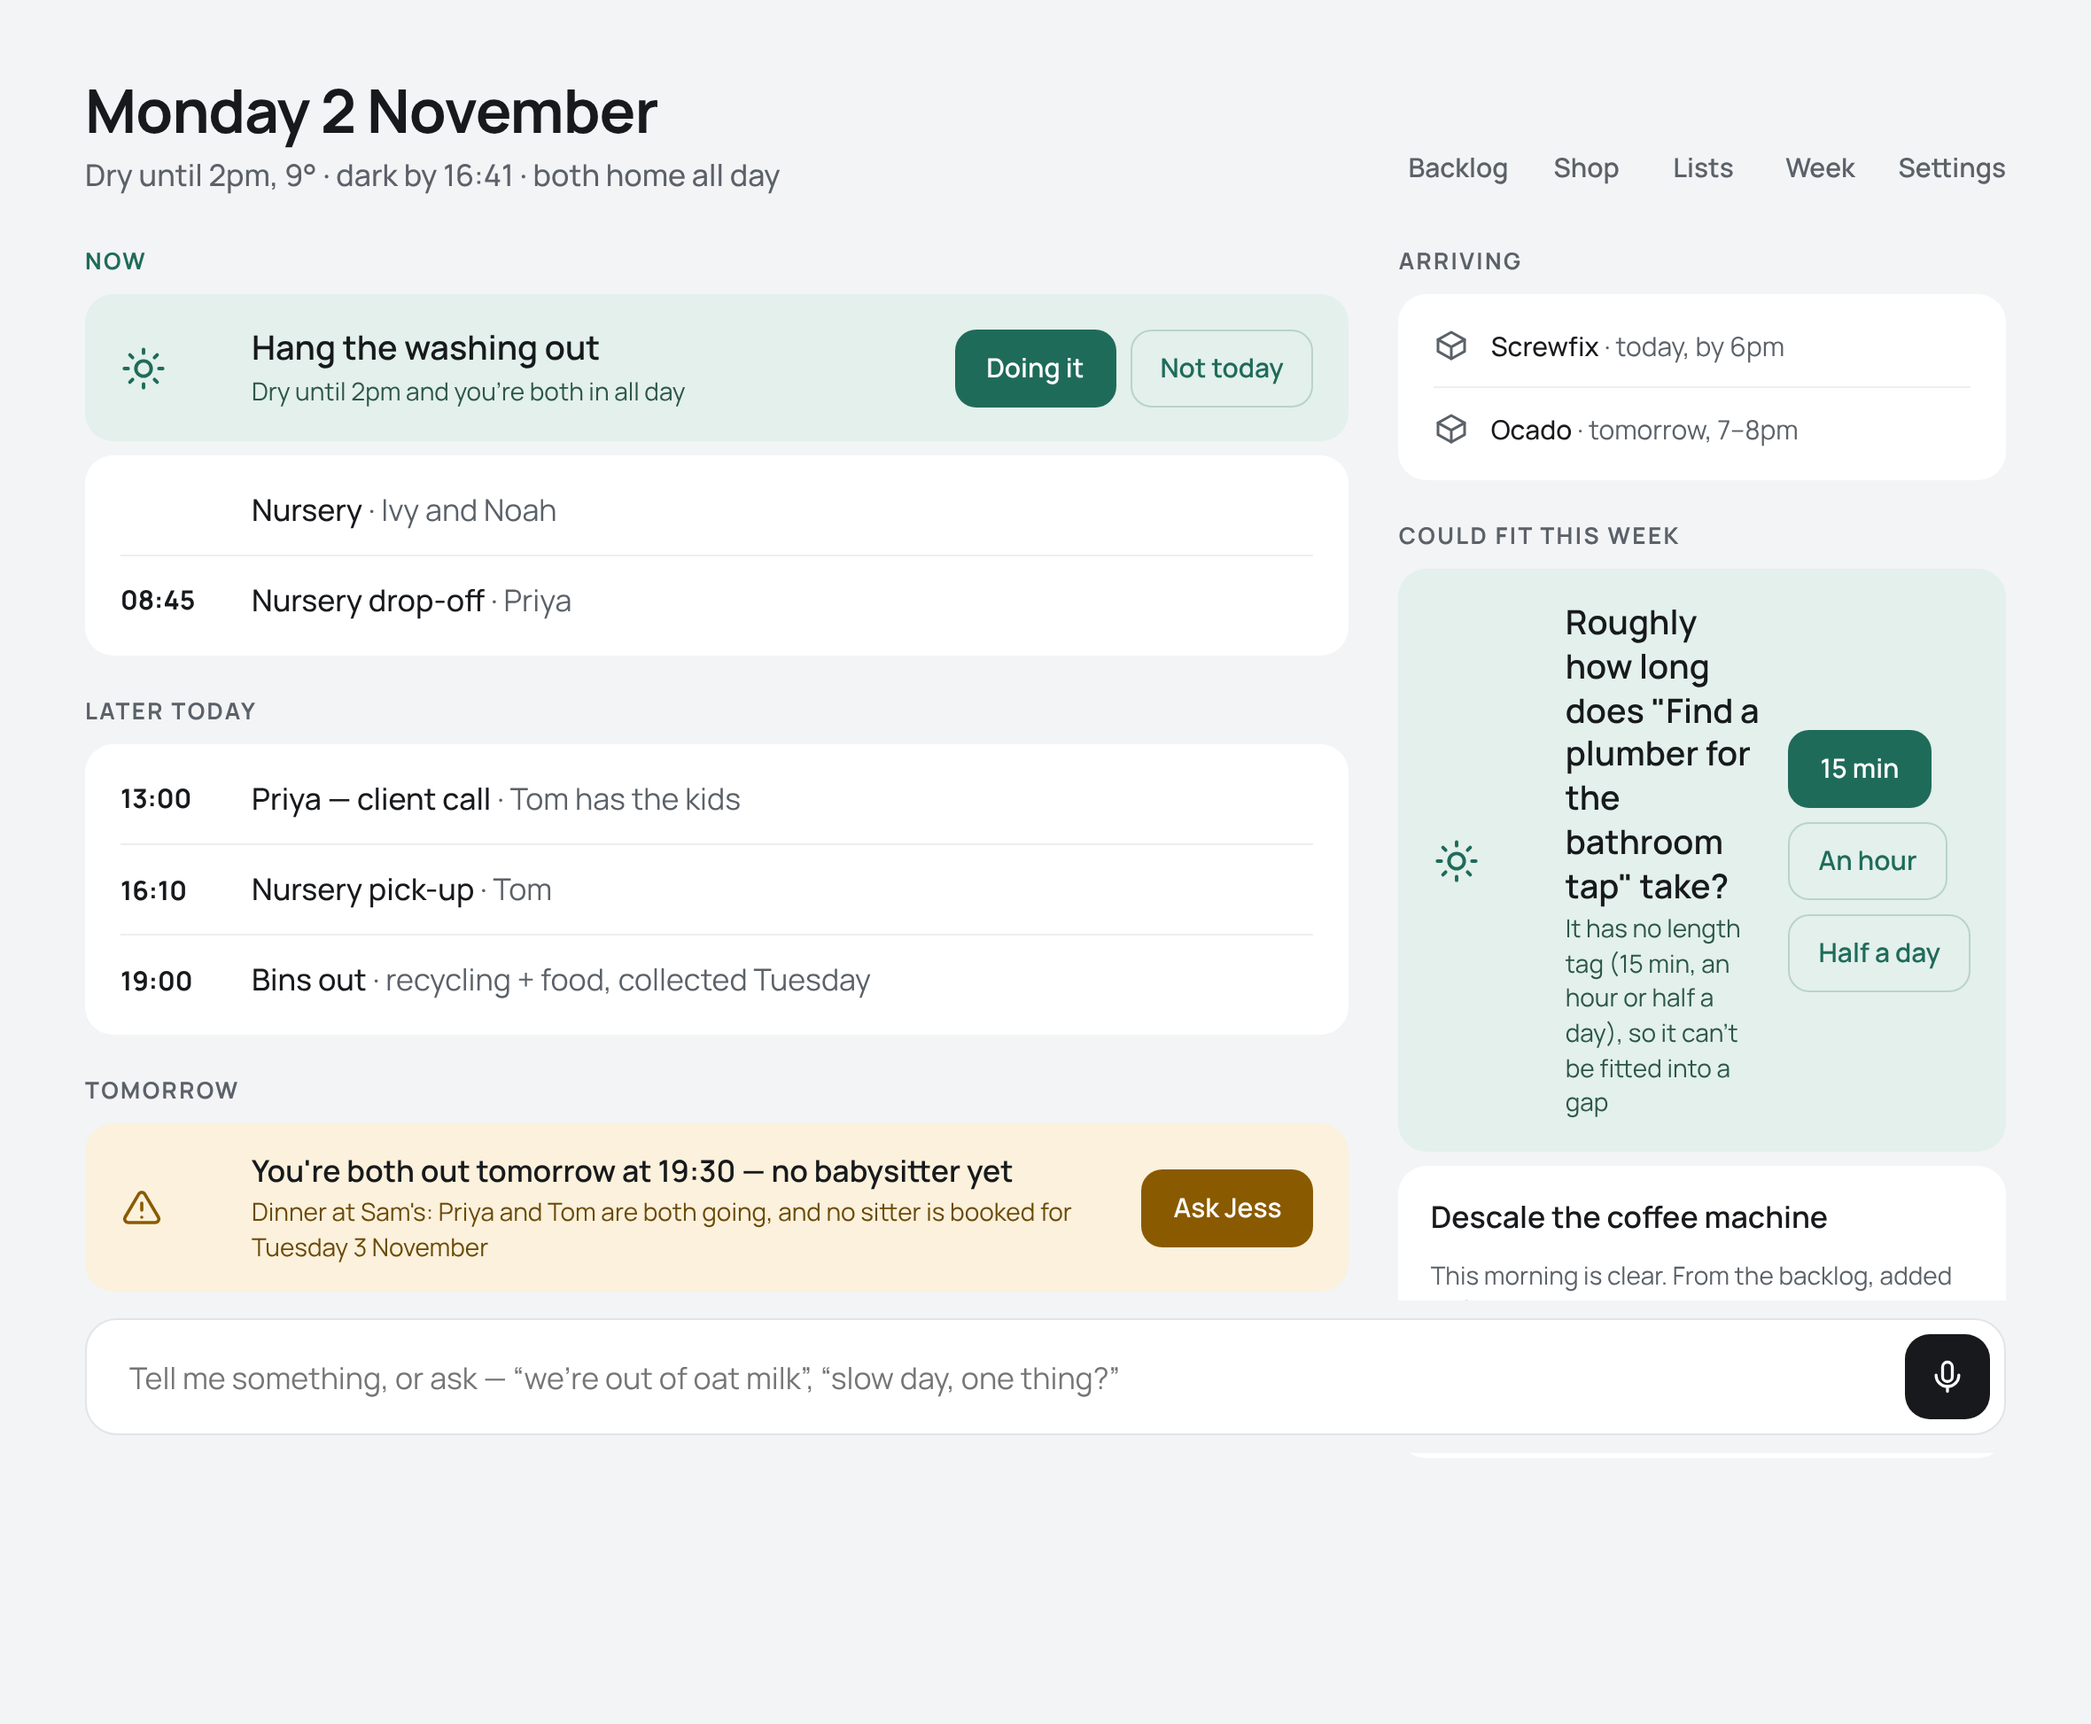
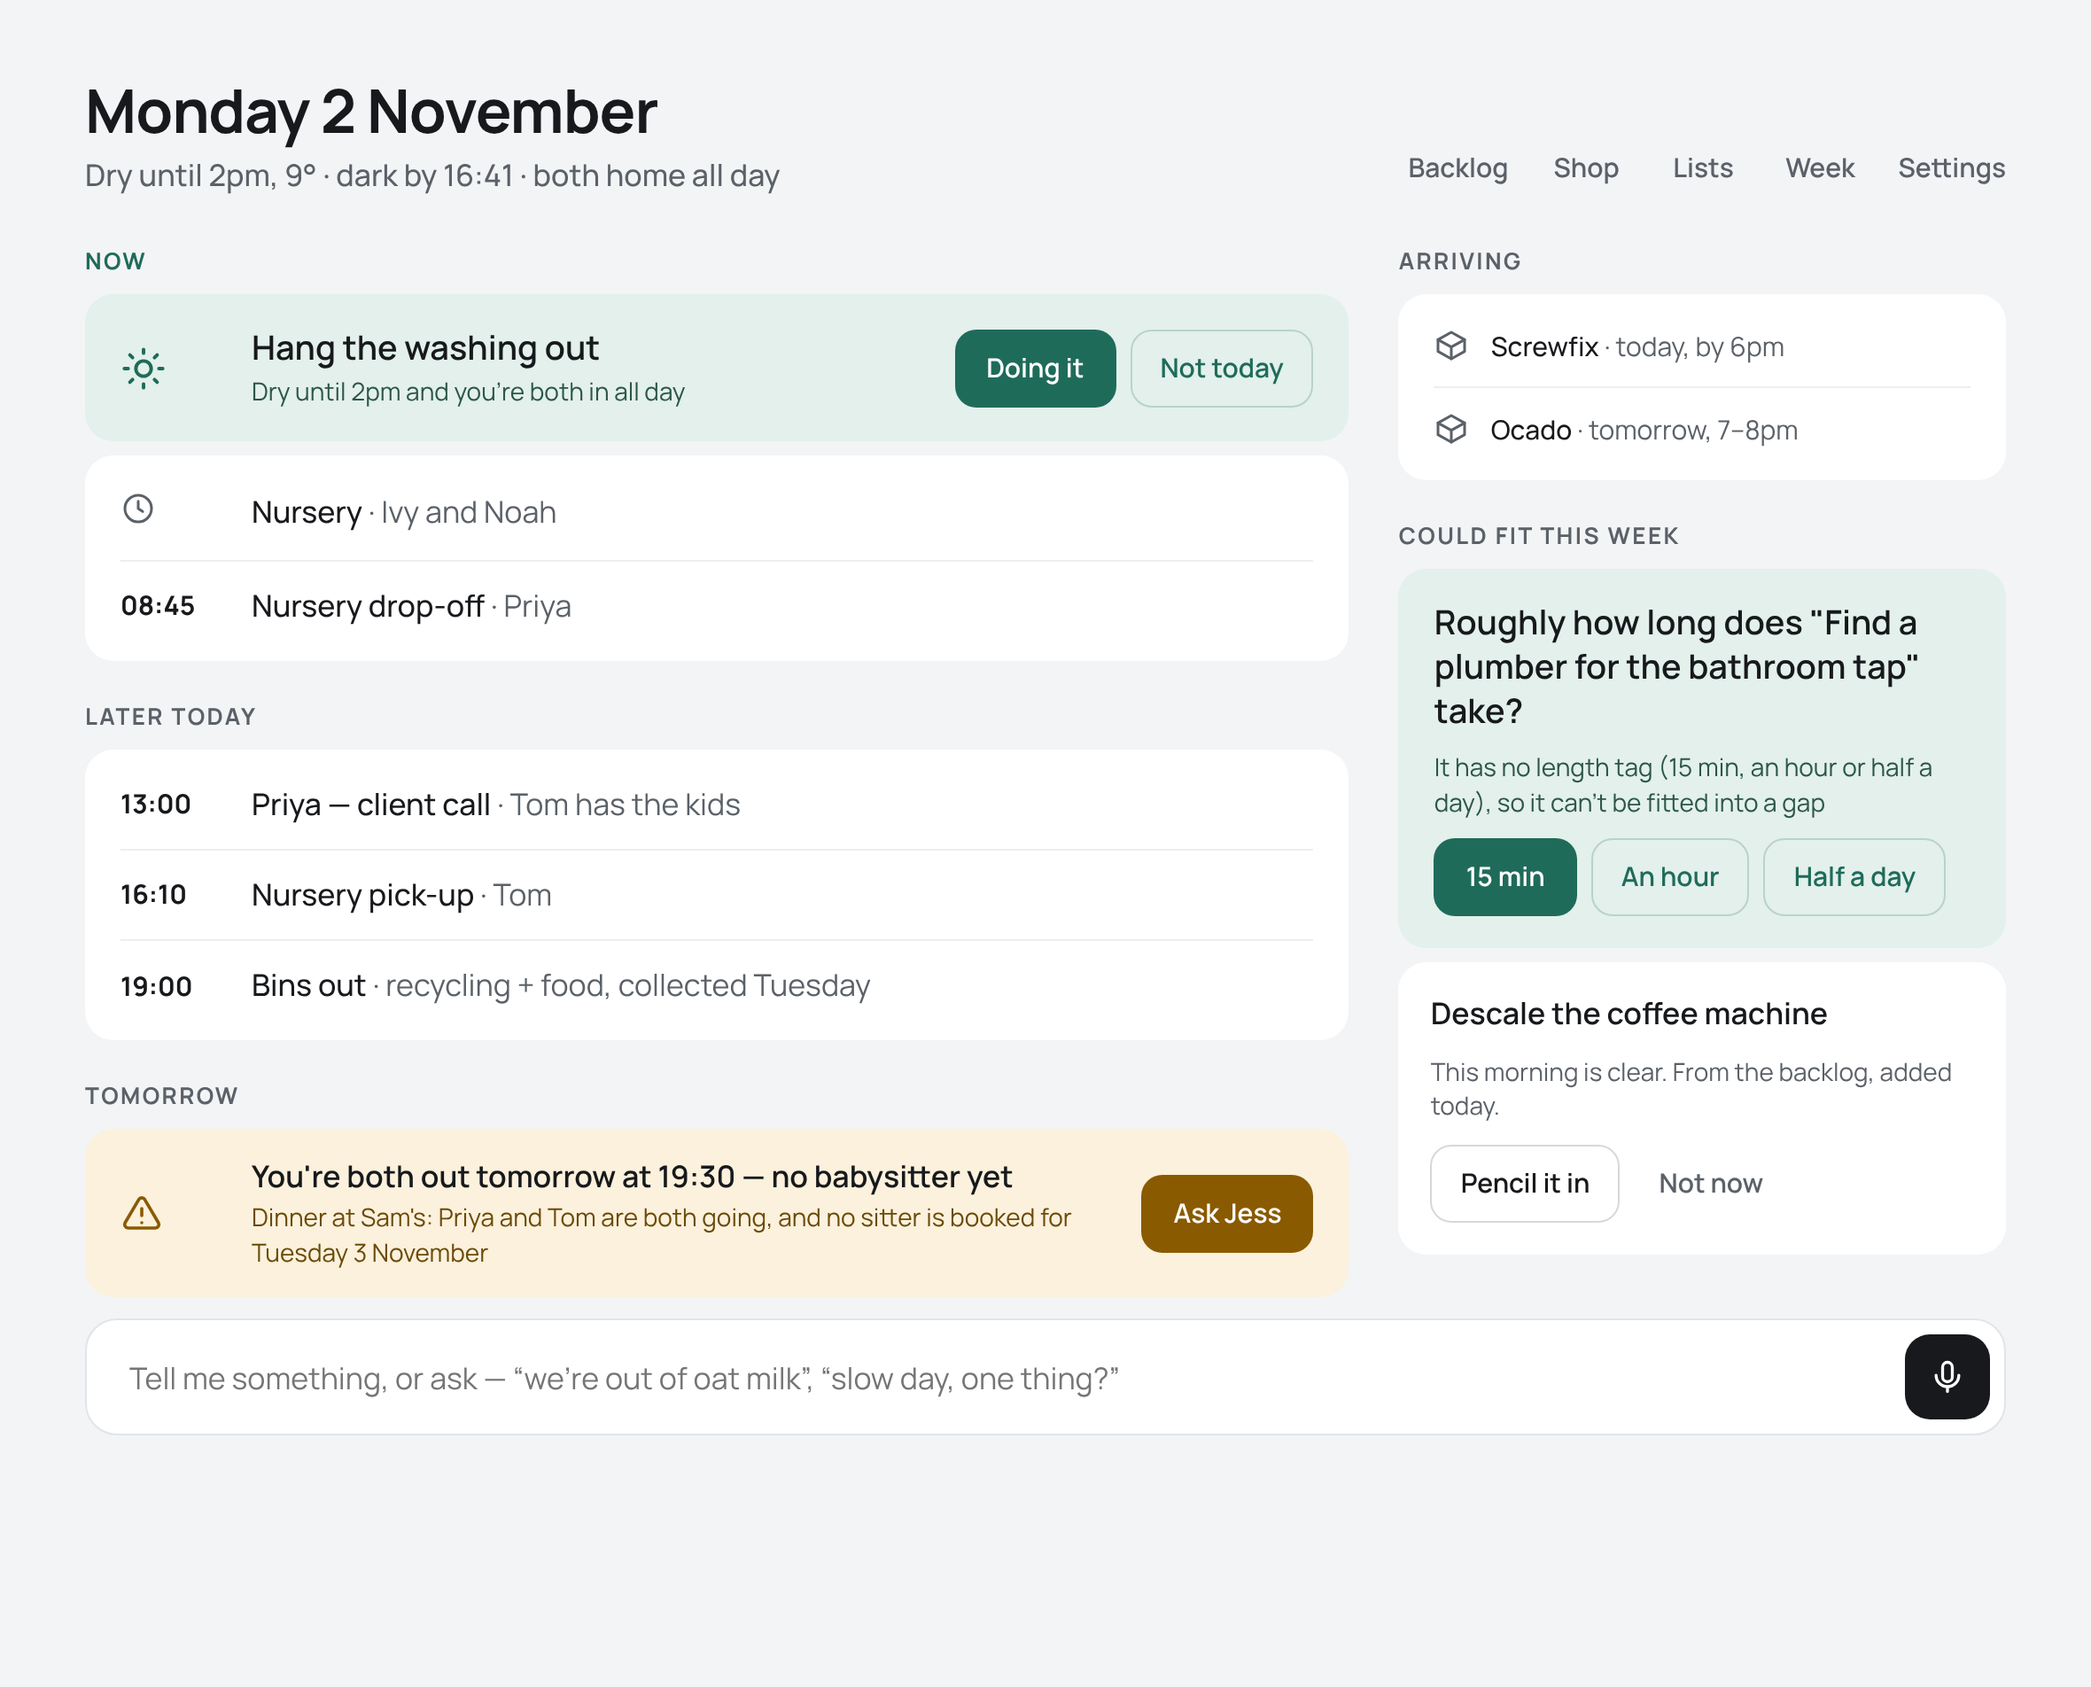
HOU-154: the deploy journey takes three builds and the shared Postgres
It took a minute of a CI worker (an embedded Postgres and four server starts), enough to push
pnpm check past FB-2. HOU-163 sizes the pools, so its server shares Postgres with the stacks
again. B reaches an untouched page through a 502 and a glance, C on one reload; the same checks.

Claude-Session: https://claude.ai/code/session_01J2FKjdDRTsvQJGczGAXMuW
Entire-Checkpoint: 01M6DTKGKWKXPER5NF2Q3C8GNP

diff --git a/e2e/deploy.spec.ts b/e2e/deploy.spec.ts
@@ -1,16 +1,14 @@
 import { type ChildProcess, spawn } from "node:child_process";
-import { randomBytes } from "node:crypto";
-import { chmodSync, cpSync, mkdirSync, mkdtempSync, rmSync, writeFileSync } from "node:fs";
-import { tmpdir } from "node:os";
+import { cpSync, mkdirSync, rmSync, writeFileSync } from "node:fs";
 import path from "node:path";
-import EmbeddedPostgres from "embedded-postgres";
+import { ensurePostgres } from "../server/testing/postgres.ts";
 import { evidence, expect, login, ownStack, reset, test } from "./fixtures.ts";
 
 /**
  * HOU-154: a deploy shows on the next reload, and an open screen picks it up by itself. This journey
  * runs its own server on a spare port of this worker's stack, and replaces it with a new build (the same
- * app with a different build id) the way a deploy does. Its server has a Postgres of its own, so it runs
- * beside the other journeys without taking the shared Postgres's connections from their stacks.
+ * app with a different build id) the way a deploy does. Three builds: B reaches an untouched page by
+ * itself, C on one reload. (HOU-163 sizes the pools, so its server shares Postgres with the stacks.)
  */
 const root = path.resolve(import.meta.dirname, "..");
 const built = path.join(root, "web", "dist", "client");
@@ -34,16 +32,7 @@ test("[HOME-6] (HOU-154) after a deploy one reload shows the new build, an open 
   const own = ownStack();
   const port = own.server + 5;
   const url = `http://localhost:${port}`;
-  const pgDir = mkdtempSync(path.join(tmpdir(), "household-deploy-pg-"));
-  // initdb creates the data directory itself (as an unprivileged user when the tests run as root).
-  chmodSync(pgDir, 0o777);
-  const pgPort = own.server + 7;
-  // A throwaway database for this run only, with a throwaway password made here.
-  const secret = randomBytes(18).toString("base64url");
-  const pg = new EmbeddedPostgres({ databaseDir: path.join(pgDir, "data"), port: pgPort, user: "postgres", password: secret, persistent: false, onLog: () => {} });
-  await pg.initialise();
-  await pg.start();
-  const pgUrl = `postgres://postgres@localhost:${pgPort}/postgres`;
+  const pg = await ensurePostgres();
   const builds = path.join(own.dataDir, "builds");
   rmSync(builds, { recursive: true, force: true });
 
@@ -62,7 +51,7 @@ test("[HOME-6] (HOU-154) after a deploy one reload shows the new build, an open 
     writeFileSync(path.join(dist, "build.txt"), name);
     const child = spawn("node", ["server/main.ts"], {
       cwd: root,
-      env: { ...process.env, DATABASE_URL: pgUrl, PGUSER: "postgres", PGPASSWORD: secret, PRACTICE: "true", PORT: String(port), DB_PREFIX: `${own.dbPrefix}deploy`, PUBLIC_URL: url, WEB_DIST: dist },
+      env: { ...process.env, DATABASE_URL: pg.url, PRACTICE: "true", PORT: String(port), DB_PREFIX: `${own.dbPrefix}deploy`, PUBLIC_URL: url, WEB_DIST: dist },
       stdio: ["ignore", "ignore", "inherit"],
     });
     state.running = { child };
@@ -86,16 +75,22 @@ test("[HOME-6] (HOU-154) after a deploy one reload shows the new build, an open 
     await expect(page.getByText("Hang the washing out")).toBeVisible();
     await expect.poll(() => page.evaluate(() => navigator.serviceWorker.controller !== null)).toBe(true);
 
-    // Deploy B to the page as first opened (no worker when it loaded; A's took over without a reload).
-    // Nobody touches the screen: it reconnects, finds the new worker and reloads itself, once.
+    // Deploy B to the page as first opened (no worker when it loaded; A's took over without a reload),
+    // and nobody touches it. In the house, Caddy answers the live connection's reconnect with a 502
+    // while the new server starts, and EventSource gives up on that for good; here the browser stubs
+    // /api/live with that 502 until `unroute`. The next minute's check (or a glance at the screen, as
+    // here) opens it again, finds the new worker, and the page reloads itself: once, not in a loop.
     let loads = 0;
     page.on("load", () => (loads += 1));
+    await page.route("**/api/live", (route) => route.fulfill({ status: 502 }));
     await deploy("b");
     const b = await buildOf();
     expect(b).not.toBe(a);
+    expect(await shown.getAttribute("content")).toBe(a);
+    await page.unroute("**/api/live");
+    await page.evaluate(() => document.dispatchEvent(new Event("visibilitychange")));
     await eventually(async () => (await shown.getAttribute("content")) === b);
     await expect(page.getByText("Hang the washing out")).toBeVisible();
-    // Once, not a loop: a few seconds later it has still loaded only the once.
     await pause(1_500);
     expect(loads).toBe(1);
     await evidence(page, "HOU-154-reloaded-itself");
@@ -106,34 +101,15 @@ test("[HOME-6] (HOU-154) after a deploy one reload shows the new build, an open 
     await expect(page.getByText("Hang the washing out")).toBeVisible();
     await evidence(page, "HOU-154-offline-last-plan");
     await ctx.setOffline(false);
-    await page.reload();
-    await expect(shown).toHaveAttribute("content", b);
 
-    // Deploy C to a page that a worker controlled when it loaded. In the house, Caddy answers the live
-    // connection's reconnect with a 502 while the new server starts, and EventSource gives up on that
-    // for good; here the browser stubs /api/live with that 502 until `unroute`. The next minute's check
-    // (or a glance at the screen, as here) opens it again and finds C.
-    await page.route("**/api/live", (route) => route.fulfill({ status: 502 }));
-    loads = 0;
+    // Deploy C, and reload straight away: that one reload shows C. The live connection is cut first, so
+    // the page's own reload cannot race this one; this step is about the reload alone.
+    await page.route("**/api/live", (route) => route.abort());
     await deploy("c");
     const c = await buildOf();
     expect(c).not.toBe(b);
-    await pause(1_500);
-    expect(await shown.getAttribute("content")).toBe(b);
-    await page.unroute("**/api/live");
-    await page.evaluate(() => document.dispatchEvent(new Event("visibilitychange")));
-    await eventually(async () => (await shown.getAttribute("content")) === c);
-    await pause(1_500);
-    expect(loads).toBe(1);
-
-    // Deploy D, and reload straight away: that one reload shows D. The live connection is cut first, so
-    // the page's own reload (above) cannot race this one; this step is about the reload alone.
-    await page.route("**/api/live", (route) => route.abort());
-    await deploy("d");
-    const d = await buildOf();
-    expect(d).not.toBe(c);
     await page.reload();
-    await expect(shown).toHaveAttribute("content", d);
+    await expect(shown).toHaveAttribute("content", c);
     await evidence(page, "HOU-154-one-reload");
     await ctx.close();
   } finally {
@@ -143,7 +119,5 @@ test("[HOME-6] (HOU-154) after a deploy one reload shows the new build, an open 
       last.kill("SIGTERM");
       await exited;
     }
-    await pg.stop();
-    rmSync(pgDir, { recursive: true, force: true });
   }
 });
